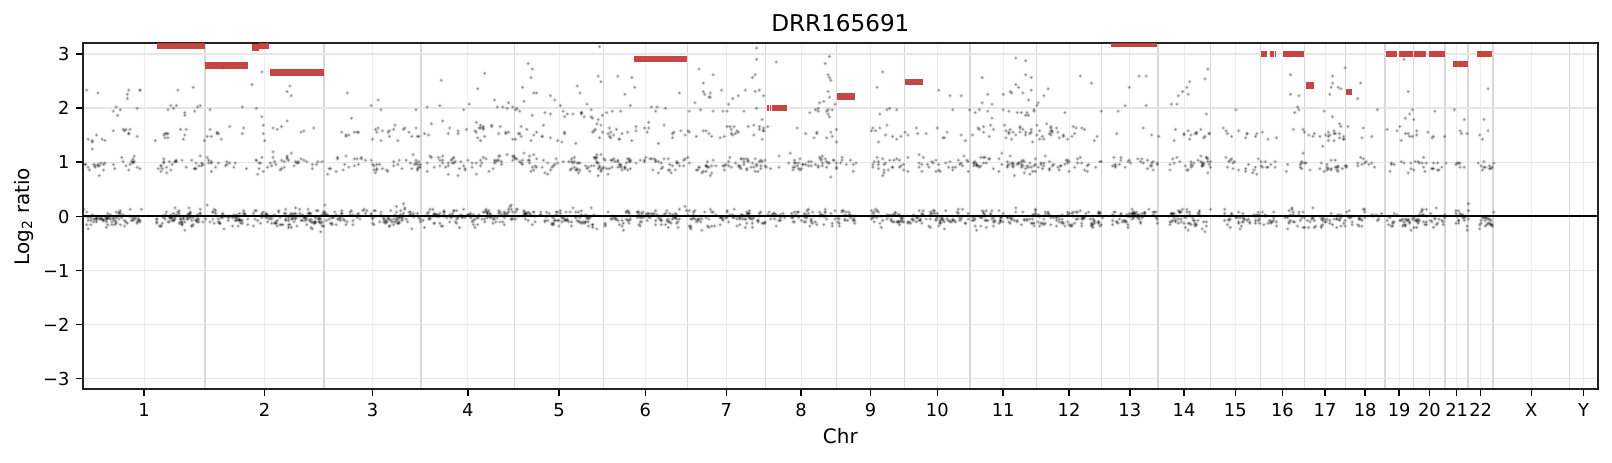
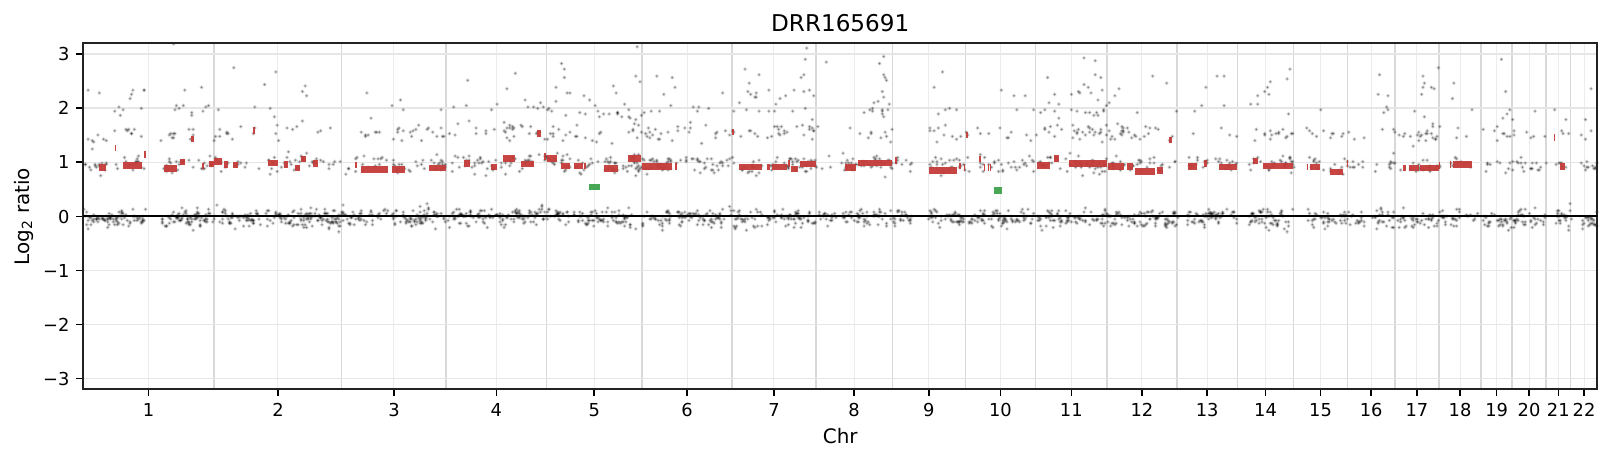
Fix gallery segments and prioritize automatic setup

diff --git a/bin/cna_codification/scripts/plot_cna_events.py b/bin/cna_codification/scripts/plot_cna_events.py
@@ -832,6 +832,34 @@ def event_profile_y(row):
     return 0.0
 
 
+def data_aware_genome_layout(chrom_sizes, ordered_chroms, *frames):
+    """Build a genome axis from chromosomes represented in the plotted data.
+
+    The cytoband reference contains chr1-22, X, and Y. Profile plots should not
+    reserve empty panels for chromosomes that are absent from both the bins and
+    fitted segments for a sample.
+    """
+    present = set()
+    for frame in frames:
+        if frame is not None and not frame.empty and "chrom" in frame.columns:
+            present.update(frame["chrom"].dropna().astype(str))
+
+    profile_chroms = [
+        chrom for chrom in ordered_chroms
+        if chrom in chrom_sizes and chrom in present
+    ]
+    if not profile_chroms:
+        profile_chroms = [chrom for chrom in ordered_chroms if chrom in chrom_sizes]
+
+    profile_offsets = {}
+    genome_size = 0
+    for chrom in profile_chroms:
+        profile_offsets[chrom] = genome_size
+        genome_size += int(chrom_sizes[chrom])
+
+    return profile_offsets, profile_chroms, genome_size
+
+
 def plot_one_log2_ratio_profile(
     bins,
     events,
@@ -855,6 +883,9 @@ def plot_one_log2_ratio_profile(
         print(f"WARNING: no bin-level log2-ratio rows found for sample '{sample}'. Skipping profile plot.")
         return False
 
+    offsets, ordered_chroms, genome_size = data_aware_genome_layout(
+        chrom_sizes, ordered_chroms, sub_bins, sub_events
+    )
     sub_bins = sub_bins[sub_bins["chrom"].isin(offsets)].copy()
     sub_bins["x"] = sub_bins.apply(
         lambda r: offsets[r["chrom"]] + int((int(r["start"]) + int(r["end"])) / 2),
@@ -965,20 +996,23 @@ def plot_log2_ratio_profiles(
                 sub_events = events[events["sample"].astype(str) == str(sample)].copy()
                 if sub_bins.empty:
                     continue
-                sub_bins = sub_bins[sub_bins["chrom"].isin(offsets)].copy()
+                sample_offsets, sample_chroms, sample_genome_size = data_aware_genome_layout(
+                    chrom_sizes, ordered_chroms, sub_bins, sub_events
+                )
+                sub_bins = sub_bins[sub_bins["chrom"].isin(sample_offsets)].copy()
                 sub_bins["x"] = sub_bins.apply(
-                    lambda r: offsets[r["chrom"]] + int((int(r["start"]) + int(r["end"])) / 2),
+                    lambda r: sample_offsets[r["chrom"]] + int((int(r["start"]) + int(r["end"])) / 2),
                     axis=1,
                 )
 
                 fig, ax = plt.subplots(figsize=(width, height))
                 centers = []
-                for chrom in ordered_chroms:
-                    c0 = offsets[chrom]
-                    c1 = offsets[chrom] + chrom_sizes[chrom]
+                for chrom in sample_chroms:
+                    c0 = sample_offsets[chrom]
+                    c1 = sample_offsets[chrom] + chrom_sizes[chrom]
                     ax.axvline(c0, color="#D8D8D8", linewidth=0.75, zorder=0)
                     centers.append((c0 + c1) / 2)
-                ax.axvline(genome_size, color="#D8D8D8", linewidth=0.75, zorder=0)
+                ax.axvline(sample_genome_size, color="#D8D8D8", linewidth=0.75, zorder=0)
                 ax.scatter(
                     sub_bins["x"],
                     sub_bins["log2"],
@@ -992,19 +1026,19 @@ def plot_log2_ratio_profiles(
                 colors = state_colors()
                 for _, row in sub_events.iterrows():
                     chrom = row["chrom"]
-                    if chrom not in offsets:
+                    if chrom not in sample_offsets:
                         continue
-                    x0 = offsets[chrom] + int(row["start"]) - 1
-                    x1 = offsets[chrom] + int(row["end"])
+                    x0 = sample_offsets[chrom] + int(row["start"]) - 1
+                    x1 = sample_offsets[chrom] + int(row["end"])
                     y = event_profile_y(row)
                     ax.hlines(y, x0, x1, colors=colors.get(row["state"], "#666666"), linewidth=3.4, alpha=0.95, zorder=4)
                 ax.axhline(0, color="black", linewidth=0.85, zorder=3)
                 ax.grid(axis="y", color=REFERENCE_GRID_COLOR, linewidth=0.65)
                 ax.grid(axis="x", color="#ECECEC", linewidth=0.5)
-                ax.set_xlim(0, genome_size)
+                ax.set_xlim(0, sample_genome_size)
                 ax.set_ylim(y_min, y_max)
                 ax.set_xticks(centers)
-                ax.set_xticklabels(ordered_chroms)
+                ax.set_xticklabels(sample_chroms)
                 ax.set_ylabel(r"Log$_2$ ratio")
                 ax.set_xlabel("Chr")
                 ax.set_title(str(sample), pad=6)

diff --git a/bin/scripts/bam_cnv_boundary_refine/bam_cnv_boundary_refine.py b/bin/scripts/bam_cnv_boundary_refine/bam_cnv_boundary_refine.py
@@ -293,8 +293,10 @@ def numeric_series(s: pd.Series) -> pd.Series:
 
 def choose_value_col(df: pd.DataFrame, exclude: List[str]) -> str:
     aliases = [
-        "final_log2", "value", "adj.seg", "adj_seg", "adjSeg", "seg.mean", "seg_mean", "Segment_Mean", "segment_mean",
-        "corrected.seg", "corrected_seg", "log2", "log2ratio", "log2_ratio", "logR", "log.r", "copy.ratio", "copy_ratio",
+        "final_log2", "value", "adj.seg", "adj_seg", "adjSeg",
+        "seg.median.logR", "seg_median_logR", "seg.median.log2", "seg_median_log2",
+        "seg.mean", "seg_mean", "Segment_Mean", "segment_mean",
+        "corrected.seg", "corrected_seg", "log2", "log2ratio", "log2_ratio", "log2_TNratio_corrected", "log2_TNratio", "logR", "log.r", "copy.ratio", "copy_ratio",
         "copynumber", "copy.number", "cn", "CN", "ratio", "median", "mean"
     ]
     c = find_col(df, aliases)

diff --git a/docs/auto_params.md b/docs/auto_params.md
@@ -1,6 +1,6 @@
 # Automatic Setup from a Reads Folder
 
-`--auto_params` is the recommended way to configure your own FASTQs. You provide:
+`--auto_params` is the recommended default for configuring your own FASTQs. You provide:
 
 1. a folder containing the reads; and
 2. a small table that maps each sample to `TUMOR` or `NORMAL`.
@@ -132,17 +132,7 @@ A5544,/data/study42/illumina_fastq/A5544_R1.fastq.gz,/data/study42/illumina_fast
 B5437,/data/study42/illumina_fastq/B5437_R1.fastq.gz,/data/study42/illumina_fastq/B5437_R2.fastq.gz,tumor
 ```
 
-### 5. YAML example: inspect or edit with nano
-
-The generated YAML is ready to use. If you need to inspect it in an editor:
-
-```bash
-nano /data/study42/illumina_fastq/oncotracer_config/illumina.auto.yml # open the generated YAML example
-```
-
-Use the arrow keys to move. A YAML setting is written as `name: value`; keep one setting per line and preserve the colon. Save with `Ctrl+O`, press Enter, then exit with `Ctrl+X`. If you change paths, use complete absolute paths and keep `outdir` and all inputs below `lpwgs_root`. The [YAML and Paths](configuration/yaml_basics.md) page explains every path rule.
-
-### 6. Check wiring, then run
+### 5. Check wiring, then run
 
 ```bash
 nextflow run main.nf -stub-run --docker -params-file /data/study42/illumina_fastq/oncotracer_config/illumina.auto.yml # optional workflow-wiring check
@@ -247,3 +237,11 @@ CSV, tab-delimited, and whitespace-delimited TXT sample tables are accepted. CSV
 ## See automatic setup with real public data
 
 The [HCC1143 public cohort](public_cohort.md) uses `--auto_params` on three paired Illumina samples—six FASTQ files—and then verifies that all three samples appear in the results. Its runnable files are in [`examples/hcc1143_lpwgs`](https://github.com/cfarkas/oncotracer/tree/main/examples/hcc1143_lpwgs).
+
+## Second option: manual YAML editing
+
+For the supported folder layouts above, the generated YAML is ready to run; you do not need to edit it. Use manual editing only when automatic detection does not fit the study or you need settings that are not exposed by automatic setup.
+
+- [Manual YAML editing and path rules](configuration/yaml_basics.md) explains YAML syntax and container-visible paths.
+- [Illumina manual setup](configuration/illumina.md#second-option-manual-setup) includes [How to edit a YAML file from the terminal](configuration/illumina.md#how-to-edit-a-yaml-file-from-the-terminal).
+- [ONT manual setup](configuration/ont.md#second-option-manual-setup) covers custom barcode mappings and settings.

diff --git a/docs/configuration.md b/docs/configuration.md
@@ -8,14 +8,14 @@ You normally need **one run YAML**, not every configuration page. Use this page 
 | --- | --- | --- |
 | Verify that OncoTracer works on this computer | [Quick verification](quick_start.md) | Public Illumina and ONT data plus generated test YAMLs |
 | Run the real three-library/six-FASTQ cohort | [Three-sample public cohort](public_cohort.md) | Download manifest, automatic YAML, full cohort results |
-| Run your own folder with standard names | [Automatic setup](auto_params.md) | A small sample table; OncoTracer generates YAML/samplesheet |
-| Write an Illumina YAML manually | [Illumina YAML example](configuration/illumina.md) | Paired-end samplesheet plus one copied YAML |
-| Write an ONT YAML manually | [ONT YAML example](configuration/ont.md) | Barcode folders/mapping plus one copied YAML |
+| Run your own folder with standard names | [Automatic setup (recommended default)](auto_params.md) | A small sample table; OncoTracer generates YAML/samplesheet |
+| Write an Illumina YAML manually | [Illumina manual setup (second option)](configuration/illumina.md) | Paired-end samplesheet plus one copied YAML |
+| Write an ONT YAML manually | [ONT manual setup (second option)](configuration/ont.md) | Barcode folders/mapping plus one copied YAML |
 | Add CNA classifier/pathology comparison | [Pathology and classifier](configuration/pathology.md) | Extra keys in the same Illumina YAML plus matched pathology CSV |
 | Change boundary-refinement behavior | [Advanced refinement](configuration/refinement.md) | Carefully justified changes in the same run YAML |
 | Look up one field/default | [All parameters](configuration/parameter_reference.md) | Reference only; do not copy every option |
 
-If this is your first run with your own data, use automatic setup. Manual YAML is useful when filenames do not follow the expected patterns or when you need non-default options.
+If this is your first run with your own data, use automatic setup as the default. Manual YAML editing is the second option when filenames do not follow the expected patterns or when you need non-default options.
 
 ## One YAML controls one run
 
@@ -32,7 +32,7 @@ All three paths in this example belong to the same project root. See [YAML examp
 
 Pathology is not a second YAML format. Copy the Illumina pathology template and use that single file for the Illumina run, classifier settings, and pathology column mapping.
 
-## Safe manual workflow
+## Second option: safe manual workflow
 
 ### 1. Copy a template
 

diff --git a/docs/gallery.md b/docs/gallery.md
@@ -6,13 +6,13 @@ The images below are rendered from OncoTracer output files. A plot demonstrates 
 
 **Provenance:** ENA run `ERR12341627`, processed by the public Illumina Quick Start with qDNAseq at 100 kb. See [Quick verification](quick_start.md) for the reproducible command and generated YAML.
 
-[Open the original qDNAseq bin plot PDF](assets/gallery/illumina_samurai_qdnaseq_bin_plot.pdf).
+[Open the original qDNAseq fitted-segment plot PDF](assets/gallery/illumina_samurai_qdnaseq_segment_plot.pdf).
 
-![Public Illumina ERR12341627 SAMURAI qDNAseq bin plot](assets/gallery/illumina_samurai_qdnaseq_bin_plot.png)
+![Public Illumina ERR12341627 SAMURAI qDNAseq profile with fitted copy-number segments](assets/gallery/illumina_samurai_qdnaseq_segment_plot.png)
 
-**How to read it:** genomic position runs across the chromosomes; deviations in normalized bin signal support candidate copy-number change. Segmentation and final event calls should be checked in stages 02 and 03 rather than estimated from pixels.
+**How to read it:** black points are normalized qDNAseq bins; orange horizontal lines are the fitted segment means produced by SAMURAI. Genomic position runs across the chromosomes. Final refined segments and event calls remain available in stages 02 and 03.
 
-## One-sample ONT public test
+## ONT ichorCNA-derived test result
 
 **Provenance:** public ONT run `DRR165691`, processed by the ONT Quick Start with ichorCNA-derived 500 kb inputs.
 
@@ -22,7 +22,7 @@ The run produces ichorCNA depth and segment tables. OncoTracer renders the profi
 
 ![Public ONT DRR165691 ichorCNA-derived copy-number profile](assets/gallery/ont_ichorcna_derived_profile.png)
 
-**How to read it:** broad changes are more defensible than isolated noisy points in low-pass data. Review the used/skipped FASTQ logs, coverage, segment table, and tumor fraction before biological interpretation.
+**How to read it:** black points are bin-level log2 ratios; colored horizontal lines are the fitted ichorCNA-derived segment means on the same log2 scale. The chromosome axis shows only chromosomes represented in the sample, so empty X/Y panels are omitted. Broad changes are more defensible than isolated noisy points in low-pass data. Review the used/skipped FASTQ logs, coverage, segment table, and tumor fraction before biological interpretation.
 
 ## Final OncoTracer Illumina visualizations
 

diff --git a/docs/configuration/yaml_basics.md b/docs/configuration/yaml_basics.md
@@ -6,11 +6,11 @@ A YAML file is a small plain-text run configuration. It tells OncoTracer which s
 
 | Situation | Use this route |
 | --- | --- |
-| You have a folder of paired Illumina FASTQs or ONT barcode folders | **Automatic setup** with `--auto_params` (recommended) |
-| You need a custom samplesheet, custom reference, or advanced settings | Copy and edit a YAML template manually |
+| You have a folder of paired Illumina FASTQs or ONT barcode folders | **Automatic setup** with `--auto_params` (recommended default) |
+| You need a custom samplesheet, custom reference, or advanced settings | **Manual YAML editing** (second option) |
 | You want to learn with public data | Use `--make_test`; see [Quick Start](../quick_start.md) |
 
-## Recommended: generate it automatically
+## Recommended default: generate it automatically
 
 Automatic setup checks the supported FASTQ layout, writes the YAML, and—for Illumina—writes the four-column samplesheet. It stops after creating these files; it does not run the analysis.
 
@@ -93,7 +93,7 @@ gzip -t project/input/illumina_fastq/Sample_A_R1.fastq.gz              # verify 
 
 On Linux, an absolute path starts with `/`. In WSL use a Linux path such as `/mnt/c/Users/Name/oncotracer`, not `C:\Users\Name\oncotracer`. Paths are case-sensitive.
 
-## Manual setup
+## Second option: manual YAML editing
 
 Use manual setup only when automatic detection does not fit the study.
 

diff --git a/docs/index.md b/docs/index.md
@@ -9,10 +9,12 @@ OncoTracer is a reproducible Nextflow research workflow for **low-pass whole-gen
 | Your goal | Start here | What you will do |
 | --- | --- | --- |
 | Check that OncoTracer works | [Quick Start](quick_start.md) | Run one public Illumina sample and one public ONT sample. |
+| Analyze your own reads (recommended default) | [Automatic setup](auto_params.md) | Point to a FASTQ folder and let OncoTracer write the configuration. |
 | Run a realistic public cohort | [Three-sample public cohort](public_cohort.md) | Download and analyze three paired HCC1143 samples (six FASTQs). |
-| Analyze your own reads | [Automatic setup](auto_params.md) | Point to a FASTQ folder and let OncoTracer write the configuration. |
-| Learn configuration first | [YAML and paths](configuration/yaml_basics.md) | Understand paths and edit a YAML example safely. |
+| Configure unusual inputs manually (second option) | [Manual YAML editing](configuration/yaml_basics.md) | Understand paths and edit a YAML example safely. |
 | Add pathology data | [Pathology and classifier](configuration/pathology.md) | Match a pathology CSV to Illumina sample names. |
+
+For your own standard Illumina or ONT layout, start with automatic setup. Edit a YAML manually only when automatic detection does not fit the study or you need advanced settings.
 
 !!! warning "First real analysis"
     The first analysis downloads the hg38 reference (about **3.16 GB**). BWA indexing is single-core and commonly takes **30–60 minutes**. Later runs reuse the prepared reference. The small public verification also downloads about **225 MB of reads**; the optional three-sample cohort downloads **1.08 GiB**.
@@ -45,7 +47,7 @@ Every analysis follows the same sequence:
 
 1. Install and check Java, Git, Nextflow, and a container runtime.
 2. Clone the repository and enter the `oncotracer` directory.
-3. Prepare a YAML file that points to inputs and an output directory.
+3. Generate a YAML automatically (recommended), or edit one manually as the second option.
 4. Perform an optional `-stub-run` wiring check.
 5. Run the real workflow with `-resume`.
 6. Open `06_workflow_summary/workflow_summary.txt` and inspect the plots.

diff --git a/README.md b/README.md
@@ -49,10 +49,10 @@ Allow at least 40 GiB of working space. Read the [example notes](examples/hcc114
 
 ## Run your own FASTQs
 
-For the simplest setup, point `--auto_params` at a reads folder and a small tumor/normal table. OncoTracer detects Illumina pairs or ONT barcode folders and creates the YAML and Illumina samplesheet:
+The recommended default is to point `--auto_params` at a reads folder and a small tumor/normal table. OncoTracer detects Illumina pairs or ONT barcode folders and creates the YAML and Illumina samplesheet:
 
-- [Automatic setup from your FASTQ folder](https://cfarkas.github.io/oncotracer/auto_params/)
-- [Manual YAML and path guide](https://cfarkas.github.io/oncotracer/configuration/yaml_basics/)
+- [Automatic setup from your FASTQ folder](https://cfarkas.github.io/oncotracer/auto_params/) — recommended default
+- [Manual YAML and path guide](https://cfarkas.github.io/oncotracer/configuration/yaml_basics/) — second option for unusual layouts or advanced settings
 - [Input-file formats](https://cfarkas.github.io/oncotracer/inputs/)
 
 `-stub-run` checks workflow wiring with placeholder tasks; it is **not** a complete validation of real FASTQ content or analysis behavior. The real command uses `-resume`, which lets Nextflow reuse unchanged tasks from an earlier or interrupted run.

diff --git a/docs/running.md b/docs/running.md
@@ -9,7 +9,7 @@ Run every command from the cloned repository directory—the directory that cont
 | You want to verify the installation with public data | Run `bash run_test.sh --docker`; see [Quick Start](quick_start.md). |
 | You have paired Illumina FASTQs with regular R1/R2 names | Generate configuration with `--auto_params`, then run the generated YAML. |
 | You have ONT FASTQs in barcode directories | Generate configuration with `--auto_params`, then run the generated YAML. |
-| Automatic naming does not fit the study | Create a manual [Illumina YAML](configuration/illumina.md) or [ONT YAML](configuration/ont.md). |
+| Automatic naming does not fit the study | Use the second option: a manual [Illumina YAML](configuration/illumina.md) or [ONT YAML](configuration/ont.md). |
 | You already have a checked YAML | Go directly to [Check wiring, then run](#check-wiring-then-run). |
 
 ## 1. Enter the repository and choose a runtime
@@ -31,7 +31,7 @@ Use exactly one runtime flag on a real run:
 
 The examples below use Docker. Replace only `--docker` with `--singularity` when appropriate.
 
-## 2. Recommended: generate configuration from a reads folder
+## 2. Recommended default: generate configuration from a reads folder
 
 `--auto_params` writes configuration files and stops. After inspecting them, launch a second command for the real analysis.
 
@@ -104,7 +104,7 @@ nextflow run main.nf --docker -params-file project/config/ont/ont.auto.yml -resu
 
 Automatic setup validates its supported file layout and compressed FASTQs. See [Automatic Setup](auto_params.md) for multiple samples, normal controls, filename rules, and optional destinations.
 
-## 3. Manual configuration route
+## 3. Second option: manual configuration
 
 For Illumina:
 

diff --git a/docs/configuration/illumina.md b/docs/configuration/illumina.md
@@ -108,7 +108,7 @@ cat project/runs/illumina_auto/06_workflow_summary/workflow_summary.txt         
 
 The stub command uses placeholder outputs; it does not analyze or fully validate the real reads. The second command is the real run. Use `--singularity` instead of `--docker` on a configured HPC system.
 
-## Manual setup
+## Second option: manual setup
 
 Choose manual setup when FASTQ naming does not match automatic detection or when you need advanced settings.
 
@@ -167,7 +167,7 @@ Save with `Ctrl+O`, press `Enter`, then exit with `Ctrl+X`. Inspect the result:
 sed -n '1,120p' params/my_illumina.yml                                # verify every saved value
 ```
 
-### Edit an Illumina YAML with Nano
+### How to edit a YAML file from the terminal
 
 The video below shows the same manual task: copy the example YAML, open it in Nano, replace the project root, samplesheet, and output paths, save with `Ctrl+O` and `Enter`, exit with `Ctrl+X`, inspect the saved YAML, perform a stub wiring check, and start the real run. The pauses are intentional so each edit can be followed.
 

diff --git a/docs/quick_start.md b/docs/quick_start.md
@@ -179,8 +179,8 @@ Read the [complete public-cohort tutorial](public_cohort.md) and the repository'
 
 ## Next: run your own data
 
-- Use [Automatic Setup](auto_params.md) to generate YAML from an Illumina FASTQ folder or ONT barcode tree.
-- Use [YAML and Paths](configuration/yaml_basics.md) if you prefer to edit a configuration manually.
+- Use [Automatic Setup](auto_params.md) as the recommended default for an Illumina FASTQ folder or ONT barcode tree.
+- Use [Manual YAML Editing](configuration/yaml_basics.md) as the second option when automatic detection does not fit.
 - Use [Pathology and Classifier](configuration/pathology.md) only when your pathology sample identifiers match your sequencing sample identifiers.
 
 Use `--singularity` instead of `--docker` on an HPC system configured with Apptainer/Singularity.

diff --git a/docs/configuration/ont.md b/docs/configuration/ont.md
@@ -110,7 +110,7 @@ cat project/runs/ont_auto/06_workflow_summary/workflow_summary.txt              
 
 `-stub-run` uses placeholder task outputs. It checks workflow wiring but does not align or fully validate the real reads, reference, tools, or scientific results. Use `--singularity` instead of `--docker` on a configured HPC system.
 
-## Manual setup
+## Second option: manual setup
 
 Choose manual setup when you need to select only some barcodes, use a custom reference, or configure normal/control data explicitly.
 